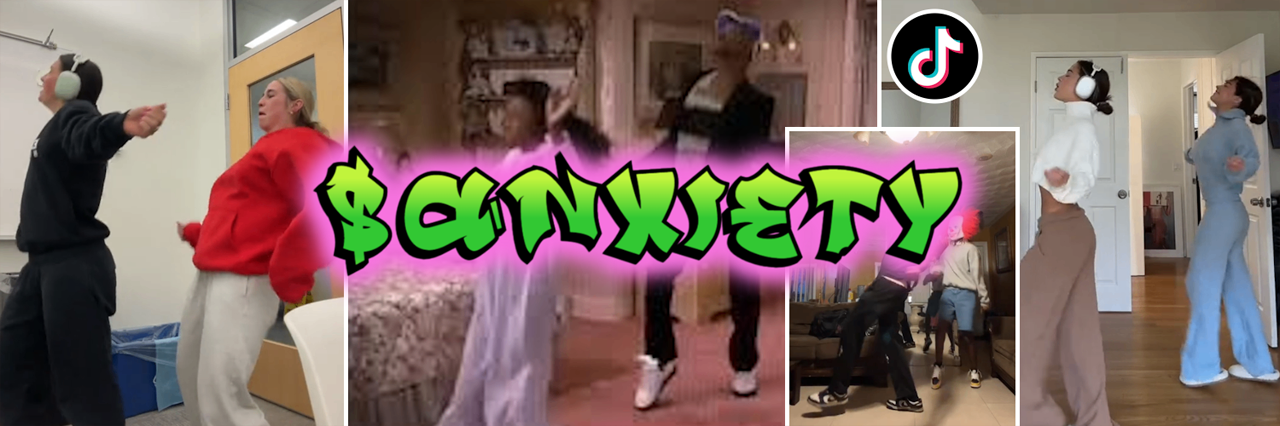
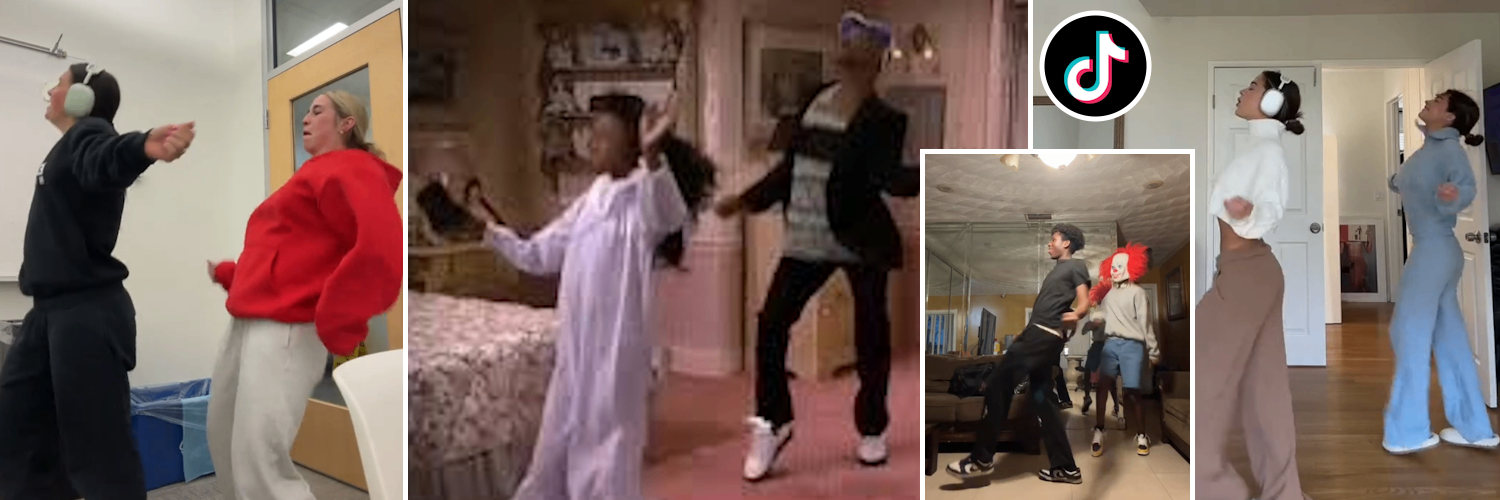
changes

Changed region(s): [[0.2188, 0.3052, 0.7812, 0.7019]]

diff --git a/index.html b/index.html
@@ -33,8 +33,8 @@
         <!-- Hero Section -->
         <section id="hero" class="hero">
             <div class="hero-overlay container">
-                <h1 class="hero-title">ANXIETY Memecoin</h1>
-                <p class="hero-subtitle">Join the viral trend and own a piece of the crypto excitement</p>
+                <img src="logo.png" alt="ANXIETY Memecoin Title" class="hero-logo">
+                <p class="hero-tagline">The Viral TikTok Dance Coin</p>
                 <a href="https://dexscreener.com/solana/675orb1ewxxmpqxnqyzy8hm2fbqammv9e29vycnbhvk6" class="cta-btn" target="_blank">Buy Now</a>
             </div>
         </section>
@@ -71,9 +71,9 @@
         <!-- Video Section -->
         <section class="video-section">
             <div class="video-container">
-                <iframe width="100%" height="auto" src="https://www.youtube.com/embed/egGt1G8vSHQ" title="Anxiety Dance Challenge - TikTok Compilation" frameborder="0" allow="accelerometer; autoplay; clipboard-write; encrypted-media; gyroscope; picture-in-picture; web-share" referrerpolicy="strict-origin-when-cross-origin" allowfullscreen></iframe>
-                <iframe width="100%" height="auto" src="https://www.youtube.com/embed/fMOUVys0PIA" title="Somebody's watching me, it's my anxiety - tiktok dance trend #shorts" frameborder="0" allow="accelerometer; autoplay; clipboard-write; encrypted-media; gyroscope; picture-in-picture; web-share" referrerpolicy="strict-origin-when-cross-origin" allowfullscreen></iframe>
-                <iframe width="100%" height="auto" src="https://www.youtube.com/embed/LCPJKd0DF4g" title="anxiety dance 👀 #dance #fyp #trend #viral #tiktoksounds #tiktok #subscribe #fyp" frameborder="0" allow="accelerometer; autoplay; clipboard-write; encrypted-media; gyroscope; picture-in-picture; web-share" referrerpolicy="strict-origin-when-cross-origin" allowfullscreen></iframe>
+                <iframe src="https://www.youtube.com/embed/egGt1G8vSHQ" title="Anxiety Dance Challenge - TikTok Compilation" frameborder="0" allow="accelerometer; autoplay; clipboard-write; encrypted-media; gyroscope; picture-in-picture; web-share" referrerpolicy="strict-origin-when-cross-origin" allowfullscreen></iframe>
+                <iframe src="https://www.youtube.com/embed/fMOUVys0PIA" title="Somebody's watching me, it's my anxiety - tiktok dance trend #shorts" frameborder="0" allow="accelerometer; autoplay; clipboard-write; encrypted-media; gyroscope; picture-in-picture; web-share" referrerpolicy="strict-origin-when-cross-origin" allowfullscreen></iframe>
+                <iframe src="https://www.youtube.com/embed/LCPJKd0DF4g" title="anxiety dance 👀 #dance #fyp #trend #viral #tiktoksounds #tiktok #subscribe #fyp" frameborder="0" allow="accelerometer; autoplay; clipboard-write; encrypted-media; gyroscope; picture-in-picture; web-share" referrerpolicy="strict-origin-when-cross-origin" allowfullscreen></iframe>
             </div>
         </section>
     </main>
@@ -106,15 +106,27 @@
             });
         });
 
-        // Parallax Effect for Hero
+        // Enhanced Parallax Effect for Hero Background
         gsap.to('#hero', {
-            backgroundPosition: 'center 0%',
+            backgroundPosition: 'center 60%', // Moves background more noticeably
             ease: 'none',
             scrollTrigger: {
                 trigger: '#hero',
                 start: 'top top',
                 end: 'bottom top',
-                scrub: 0.5
+                scrub: 1 // Smoother and more pronounced effect
+            }
+        });
+
+        // Parallax Effect for Hero Logo
+        gsap.to('.hero-logo', {
+            y: 50, // Slight vertical movement
+            ease: 'none',
+            scrollTrigger: {
+                trigger: '#hero',
+                start: 'top top',
+                end: 'bottom top',
+                scrub: 1.5 // Slightly faster than background for depth
             }
         });
     </script>

diff --git a/style.css b/style.css
@@ -137,23 +137,23 @@ body {
     padding: 60px;
     border-radius: 20px;
     backdrop-filter: blur(5px);
+    display: flex;
+    flex-direction: column;
+    align-items: center;
+    gap: 20px; /* Reduced gap for tighter spacing */
 }
 
-.hero-title {
-    font-family: 'Roboto Mono', monospace;
-    font-size: 3.5rem;
-    color: #8A2BE2;
-    margin-bottom: 20px;
-    text-transform: uppercase;
-    letter-spacing: 2px;
-    text-shadow: 0 0 10px rgba(138, 43, 226, 0.5);
+.hero-logo {
+    width: 100%;
+    max-width: 500px; /* Adjust based on your logo's original size */
+    height: auto;
+    display: block;
 }
 
-.hero-subtitle {
+.hero-tagline {
     font-size: 1.5rem;
     font-weight: 400;
     color: #ddd;
-    margin-bottom: 40px;
     letter-spacing: 1px;
 }
 
@@ -283,14 +283,16 @@ body {
 }
 
 .video-container {
-    max-width: 600px;
+    max-width: 1200px; /* Wider container for grid */
     margin: 0 auto;
+    display: grid;
+    grid-template-columns: repeat(3, 1fr); /* 3 columns on PC */
+    gap: 20px;
 }
 
 .video-container iframe {
     width: 100%;
-    height: 400px;
-    margin-bottom: 20px;
+    height: 250px; /* Fixed height for consistency */
     border: none;
 }
 
@@ -315,11 +317,11 @@ body {
 
 /* Media Queries */
 @media (max-width: 1024px) {
-    .hero-title {
-        font-size: 3rem;
+    .hero-logo {
+        max-width: 400px;
     }
 
-    .hero-subtitle {
+    .hero-tagline {
         font-size: 1.3rem;
     }
 
@@ -336,8 +338,8 @@ body {
         font-size: 1.1rem;
     }
 
-    .video-container iframe {
-        height: 350px;
+    .video-container {
+        grid-template-columns: repeat(2, 1fr); /* 2 columns on tablets */
     }
 }
 
@@ -375,11 +377,11 @@ body {
         display: inline-block;
     }
 
-    .hero-title {
-        font-size: 2.5rem;
+    .hero-logo {
+        max-width: 300px;
     }
 
-    .hero-subtitle {
+    .hero-tagline {
         font-size: 1.2rem;
     }
 
@@ -401,8 +403,12 @@ body {
         gap: 15px;
     }
 
+    .video-container {
+        grid-template-columns: 1fr; /* 1 column on mobile */
+    }
+
     .video-container iframe {
-        height: 300px;
+        height: 300px; /* Slightly larger on mobile */
     }
 
     .contract-address {
@@ -412,11 +418,15 @@ body {
 }
 
 @media (max-width: 480px) {
-    .hero-title {
-        font-size: 2rem;
+    .hero-logo {
+        max-width: 200px;
     }
 
-    .hero-subtitle {
+    .hero-overlay {
+        padding: 30px;
+    }
+
+    .hero-tagline {
         font-size: 1rem;
     }
 
